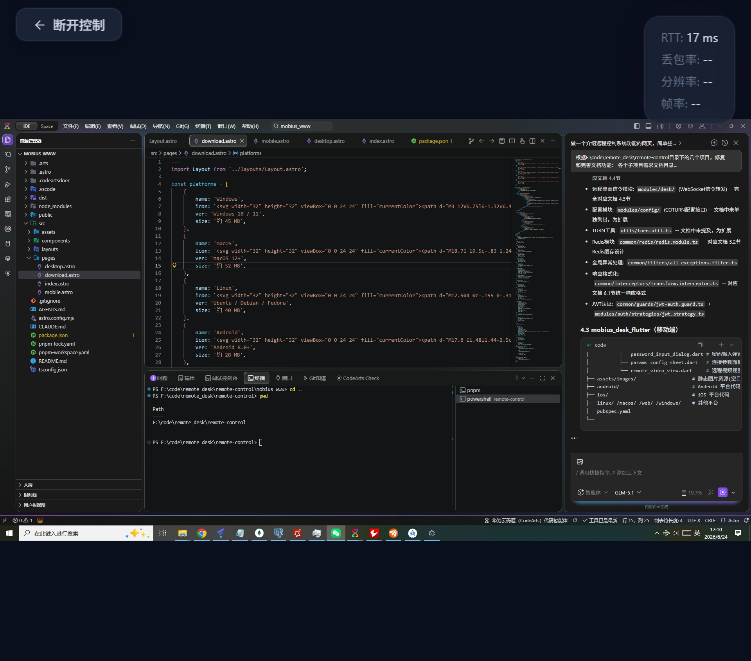
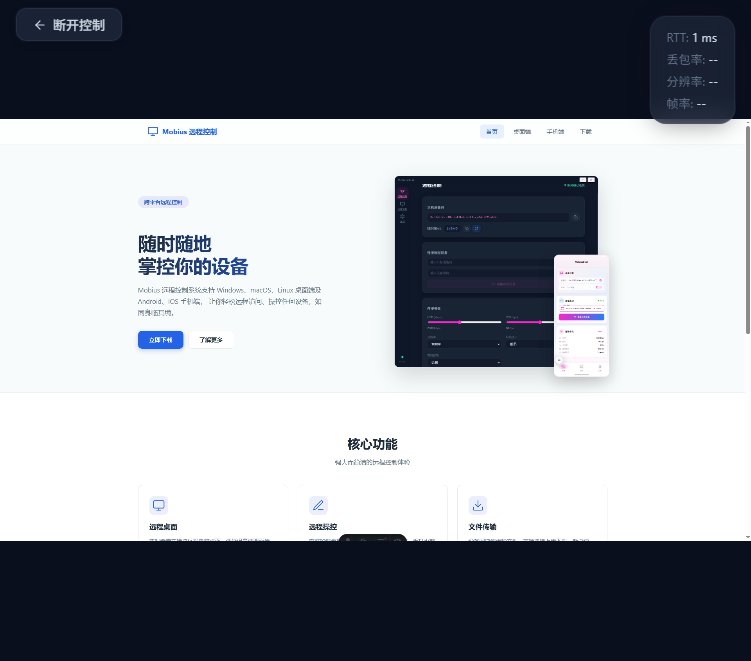
feat: 完善readme

diff --git a/README.md b/README.md
@@ -46,6 +46,14 @@
 
 ## 截图预览
 
+### 官网（MobiusDesk WWW）
+
+基于 Astro 构建的项目介绍网站，展示产品功能与使用说明。
+
+<p align="center">
+  <img src="mobius_www/public/assets/www.png" width="80%" alt="MobiusDesk 官网" />
+</p>
+
 ### 桌面端
 
 <p align="center">
@@ -56,14 +64,19 @@
   <img src="mobius_www/public/assets/d22.png" width="45%" alt="文件传输管理" />
   <img src="mobius_www/public/assets/d3.png" width="45%" alt="设备列表管理" />
 </p>
+<p align="center">
+  <img src="mobius_www/public/assets/d4.png" width="45%" alt="系统设置" />
+</p>
 
 ### 手机端
 
 <p align="center">
-  <img src="mobius_www/public/assets/1.png" width="22%" alt="设备列表" />
-  <img src="mobius_www/public/assets/2.png" width="22%" alt="远程控制" />
-  <img src="mobius_www/public/assets/3.png" width="22%" alt="文件管理" />
-  <img src="mobius_www/public/assets/4.png" width="22%" alt="设置页面" />
+  <img src="mobius_www/public/assets/1.png" width="18%" alt="设备列表" />
+  <img src="mobius_www/public/assets/2.png" width="18%" alt="远程控制" />
+  <img src="mobius_www/public/assets/3.png" width="18%" alt="文件管理" />
+  <img src="mobius_www/public/assets/4.png" width="18%" alt="设置页面" />
+  <img src="mobius_www/public/assets/5.png" width="18%" alt="连接参数" />
+  <img src="mobius_www/public/assets/6.png" width="18%" alt="远程画面" />
 </p>
 
 ## 快速开始